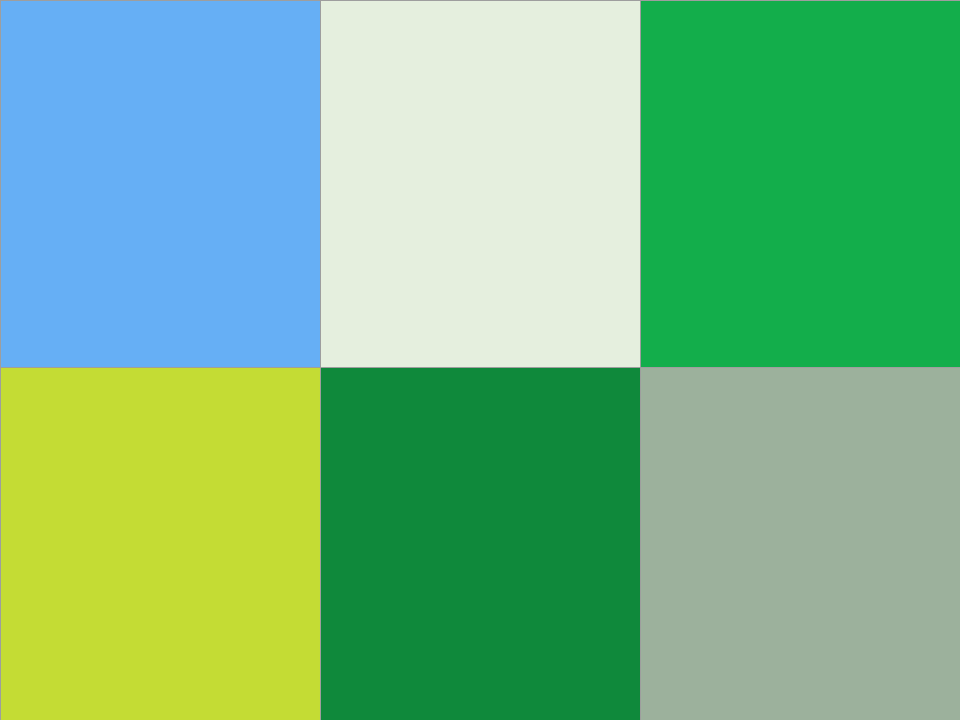
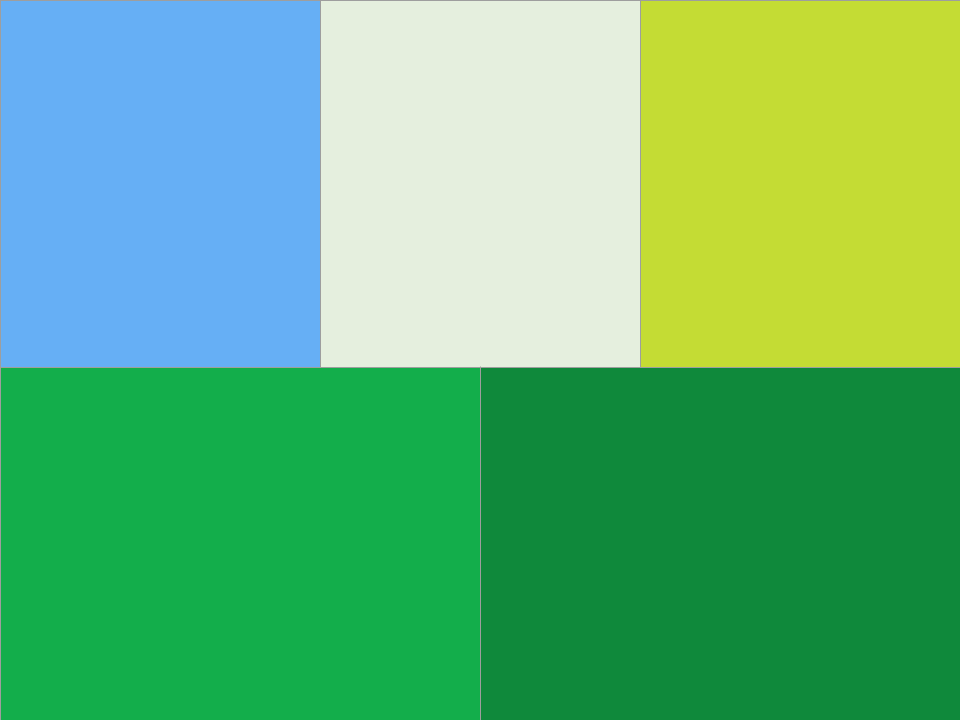
adding theme color palettes

diff --git a/main.py b/main.py
@@ -10,11 +10,30 @@ from PIL import ImageTk, Image
 palette = {
     "main background": "#66aff5",
     "text button background": "#e5efde",
-    "primary button background": "#13ae4b",
     "selection frame background": "#c4dc34",
+    "primary button background": "#13ae4b",
     "darker than primary button": "#0f893b",
-    "darker than text button": "#9cb19c",
+    
 }
+
+# TODO add and test these color palettes once setting in place
+''' #355C7D
+#F8B195
+#F67280
+#C06C84
+#6C5B7B
+'''
+
+'''
+#445A67
+#B4C9C7
+#57838D
+#F3BFB3
+#CCADB2
+'''
+
+
+
 
 # determining OS of user
 # ratio is to compensate for text size differential between Windows and macOS
@@ -201,7 +220,7 @@ class main_screen:
                 do_not_show = False
             else:
                 do_not_show = "needs reset"
-
+        
         self.upload_frame = tk.Frame(
             self.master, bd=5, bg=palette["selection frame background"]
         )
@@ -390,7 +409,7 @@ class settings_screen:
         )
 
         self.theme_frame = tk.Frame(
-            self.master, bg=palette["primary button background"], bd=5
+            self.master, bg=palette["selection frame background"], bd=5
         )
         self.theme_frame.place(
             relx=0.5, rely=0.25, relwidth=0.95, relheight=0.15, anchor="n"
@@ -405,23 +424,44 @@ class settings_screen:
                 int(80 * RATIO),
                 "bold",
             ),
-            fg=palette["selection frame background"],
             bd=5,
+            anchor='center'
         )
         self.theme_title.place(
-            relx=0.125, rely=0, relwidth=0.3, relheight=1, anchor="n"
+            relx=0.1125, rely=0, relwidth=0.225, relheight=1, anchor="n"
         )
 
-        # TODO add themes after in this frame to the right
+        # TODO make all buttons have black border like text buttons in main_screen
 
         self.first_theme_button = tk.Button(
-            self.master, bd=5, bg=palette["selection frame background"]
+            self.theme_frame
         )
+        self.first_theme_button.place(relwidth=0.225, relheight=0.9, relx=0.25, rely=0.05)
 
         self.first_theme_pic = fit_image(
-            Image.open("./images/first_palette.png"), self.first_theme_button
+            Image.open("./images/first_palette.png"), self.first_theme_button, full=True
         )
         self.first_theme_button.configure(image=self.first_theme_pic)
+
+        self.second_theme_button = tk.Button(
+            self.theme_frame
+        )
+        self.second_theme_button.place(relwidth=0.225, relheight=0.9, relx=0.5, rely=0.05)
+
+        self.second_theme_pic = fit_image(
+            Image.open("./images/second_palette.png"), self.second_theme_button, full=True
+        )
+        self.second_theme_button.configure(image=self.second_theme_pic)
+
+        self.third_theme_button = tk.Button(
+            self.theme_frame
+        )
+        self.third_theme_button.place(relwidth=0.225, relheight=0.9, relx=0.75, rely=0.05)
+
+        self.third_theme_pic = fit_image(
+            Image.open("./images/third_palette.png"), self.third_theme_button, full=True
+        )
+        self.third_theme_button.configure(image=self.third_theme_pic)
 
 
 class custom_screen:
